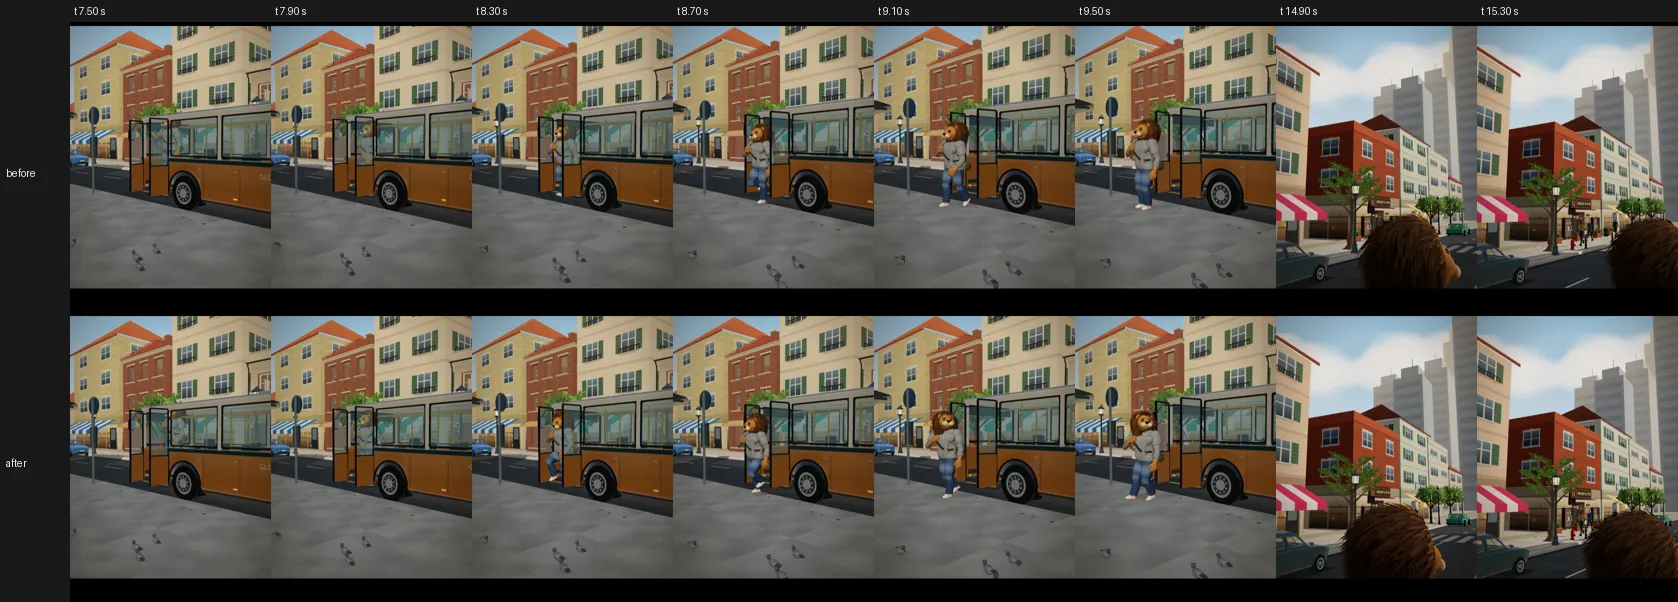
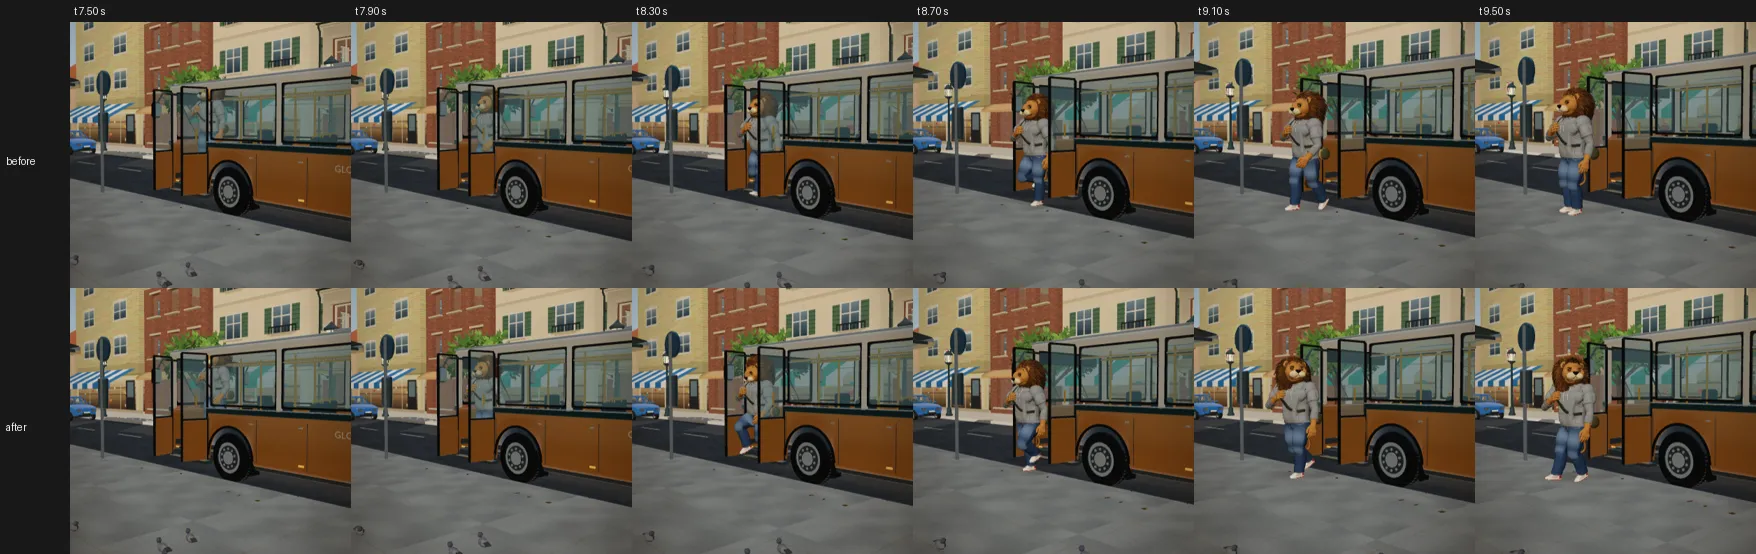
ch1-motion: re-measured opening, walk handoff and dog walker on v1.93 (strips)
Claude-Session: https://claude.ai/code/session_012XYxhNGd6wn6U9MuUmHsfB

diff --git a/qa/ch1-motion/dog-strip.py b/qa/ch1-motion/dog-strip.py
@@ -1,0 +1,19 @@
+# The dog walker before/after (ch1-motion): the film's own frame at 5.0 s with a 2x crop of her, and two QA close-ups.
+# usage: python3 qa/ch1-motion/dog-strip.py RUNS_DIR OUT.webp
+import sys
+from PIL import Image, ImageDraw
+runs, out = sys.argv[1:3]
+row_h = 420
+img = Image.new('RGB', (70 + 280 + 210 + 2 * 244, 22 + 2 * row_h), (24, 24, 24))
+d = ImageDraw.Draw(img)
+for row, tag in enumerate(['before', 'after']):
+    y = 22 + row * row_h
+    d.text((6, y + row_h // 2), tag, fill=(240, 240, 240))
+    film = Image.open('%s/dogfilm-%s-5.00.png' % (runs, tag)).convert('RGB')
+    img.paste(film.crop((0, 40, 402, 640)).resize((280, 418)), (70, y))
+    img.paste(film.crop((170, 240, 275, 330)).resize((210, 180)), (350, y))       # her and the dog in the film frame, 2x
+    for i, t in enumerate(['5.00', '5.30']):
+        c = Image.open('%s/dog-%s-%s.png' % (runs, tag, t)).convert('RGB').crop((0, 80, 402, 560)).resize((244, 291))
+        img.paste(c, (560 + i * 244, y))
+d.text((74, 5), 'film frame 5.0 s', fill=(240, 240, 240)); d.text((354, 5), 'her in the film frame, 2x', fill=(240, 240, 240)); d.text((564, 5), 'QA close-up 5.0 s / 5.3 s', fill=(240, 240, 240))
+img.save(out, 'WEBP', quality=82); print(out, img.size)
